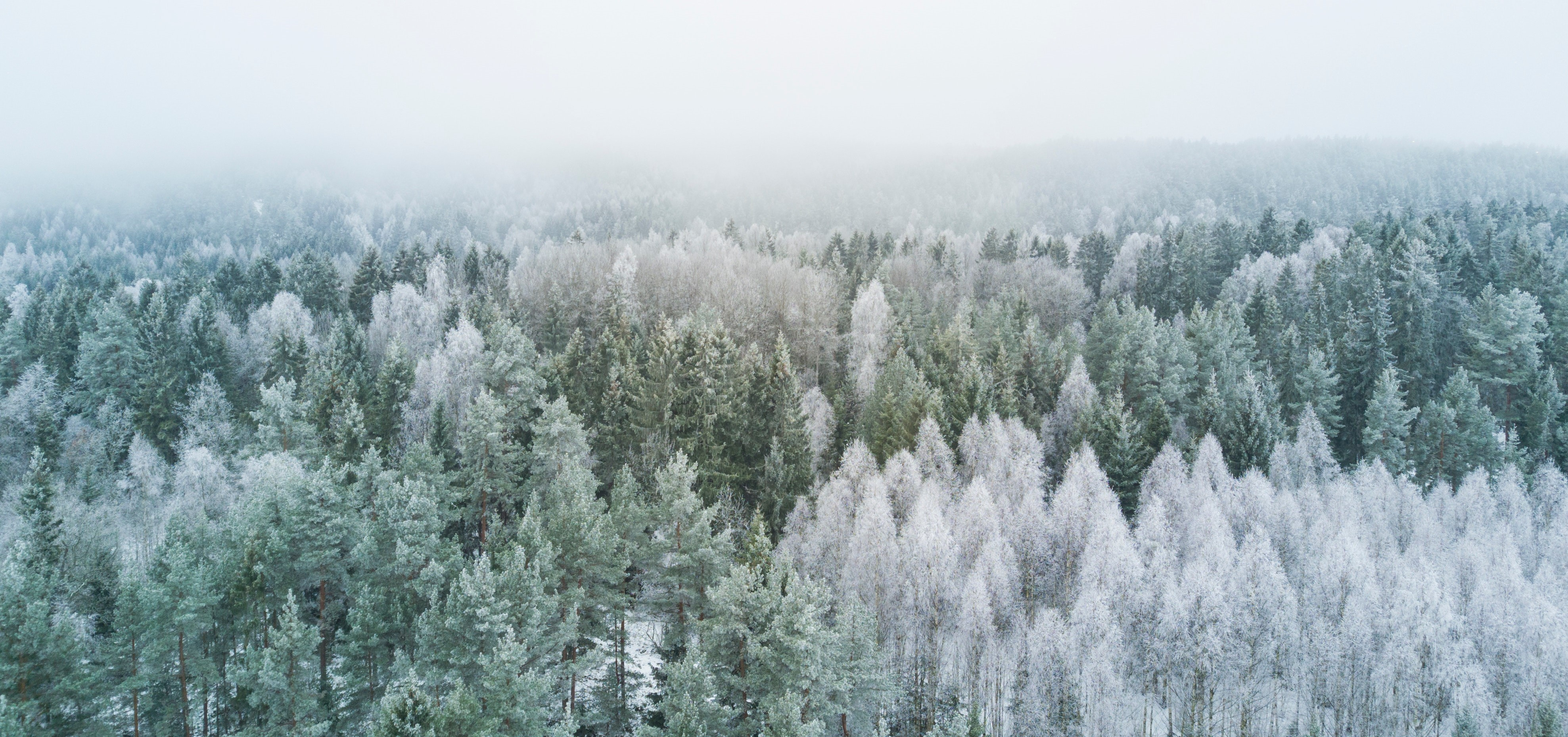
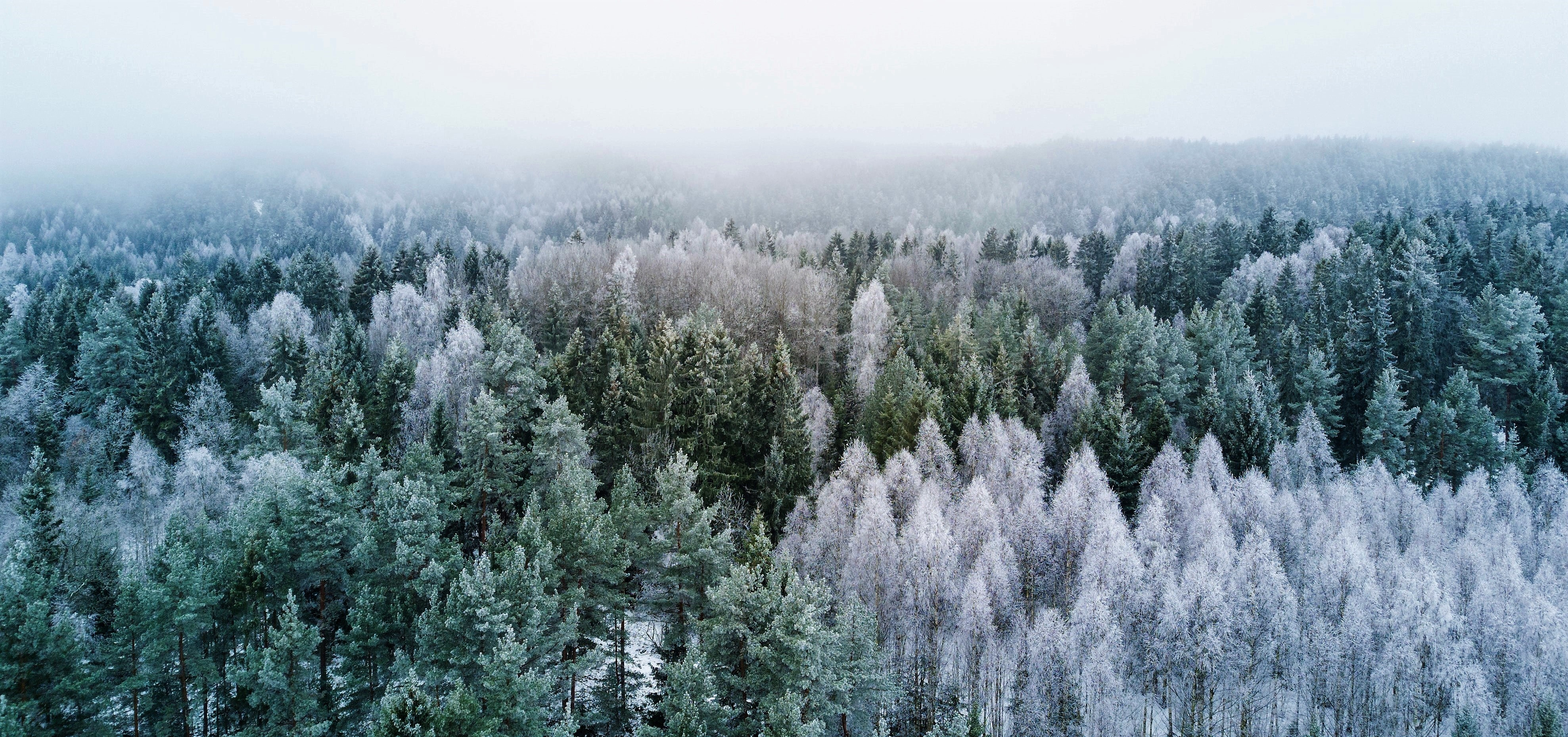
styling

diff --git a/src/components/RemoveComponent.js b/src/components/RemoveComponent.js
@@ -7,13 +7,15 @@ class RemoveComponent extends Component {
 
   render() {
     return (
-      <div className="removeDialog" style={{ display: this.props.display}} onClick={function(e) {e.stopPropagation();}}>
-        <p onClick={this.props.exit}>x</p>      
-        <form action="http://localhost:8080/remove" target="dummyframe" method="post">
-          <input name="code" type="text" placeholder="enter your removal code" autoComplete="off" ></input>
-          <button className="button" type="submit">Submit</button>
-        </form>
-        <iframe width="0" height="0" border="0" name="dummyframe" id="dummyframe" display="none" frameBorder="0"></iframe>        
+      <div className="overlay" style={{ display: this.props.display}}>
+        <div className="removeDialog" style={{ display: this.props.display}} onClick={function(e) {e.stopPropagation();}}>
+          <p onClick={this.props.exit}>×</p>      
+          <form action="http://localhost:8080/remove" target="dummyframe" method="post">
+            <input name="code" type="text" placeholder="enter your removal code" autoComplete="off" ></input>
+            <button className="button" type="submit">Submit</button>
+          </form>
+          <iframe width="0" height="0" border="0" name="dummyframe" id="dummyframe" display="none" frameBorder="0"></iframe>        
+        </div>
       </div>
     );
   }

diff --git a/src/containers/ResultsContainer.js b/src/containers/ResultsContainer.js
@@ -89,8 +89,10 @@ class ResultsContainer extends Component {
               <button className="button" onClick={ this.watchClasses }>Watch</button>
               <iframe width="0" height="0" border="0" name="dummyframe" id="dummyframe" display="none" frameBorder="0"></iframe>
               <input type="hidden" name="course_name" display="none" value={course_name}></input>
-              <div className="submitDialog" style={{ display: this.state.submitDialog }} onClick={this.clickDialog}>
-                <SubmitComponent exit={this.exitSubmit} onSubmit={this.onSubmit}/>
+              <div className="overlay" style={{ display: this.state.submitDialog }}>
+                <div className="submitDialog" style={{ display: this.state.submitDialog }} onClick={this.clickDialog}>
+                  <SubmitComponent exit={this.exitSubmit} onSubmit={this.onSubmit}/>
+                </div>
               </div>
             </form>
           </div>

diff --git a/src/assets/style/App.css b/src/assets/style/App.css
@@ -103,7 +103,7 @@ input:focus {
 }
 
 #winter {
-  background: url('../img/winter.jpg');
+  background: url('../img/winter4.jpg');
   height: 100vh;
   width: 100vw;
   background-repeat:no-repeat;
@@ -134,6 +134,14 @@ input:focus {
   background-position: center; 
 }
 
+.overlay {
+  position: fixed;
+  left: 0;
+  top: 0;
+  width: 100vw;
+  height: 100vh;
+  background-color: rgba(255, 255, 255, 0.3);
+}
 
 .removeButton {
   position: fixed;
@@ -169,7 +177,7 @@ input:focus {
   float: right;
   clear: both;
   color: white;
-  font-size: 25px;
+  font-size: 30px;
 }
 
 .removeDialog input {
@@ -347,7 +355,7 @@ button {
   float: right;
   clear: both;
   color: white;
-  font-size: 25px;
+  font-size: 30px;
 }
 
 .submitDialog input {

diff --git a/src/components/SubmitComponent.js b/src/components/SubmitComponent.js
@@ -8,7 +8,7 @@ class SubmitComponent extends Component {
   render() {
     return (
       <div>
-        <p onClick={this.props.exit}>x</p>
+        <p onClick={this.props.exit}>×</p>
         <input name="email" type="text" placeholder="enter your email" autoComplete="off"></input>
         <button onClick={this.props.onSubmit}>Submit</button>
       </div>
